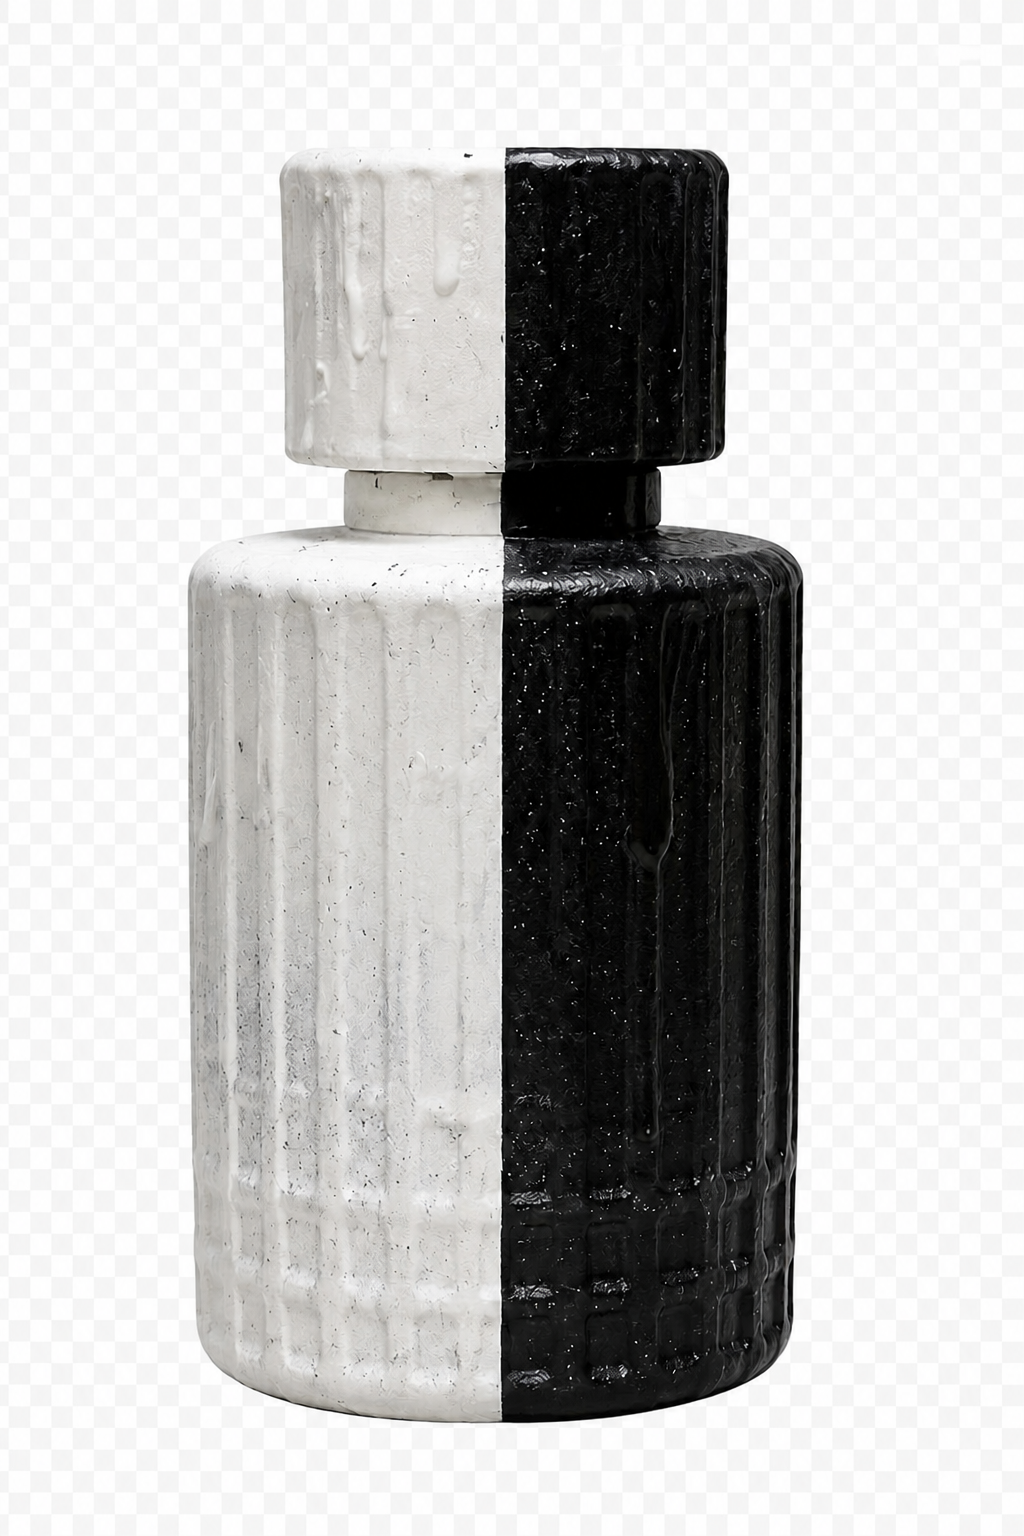
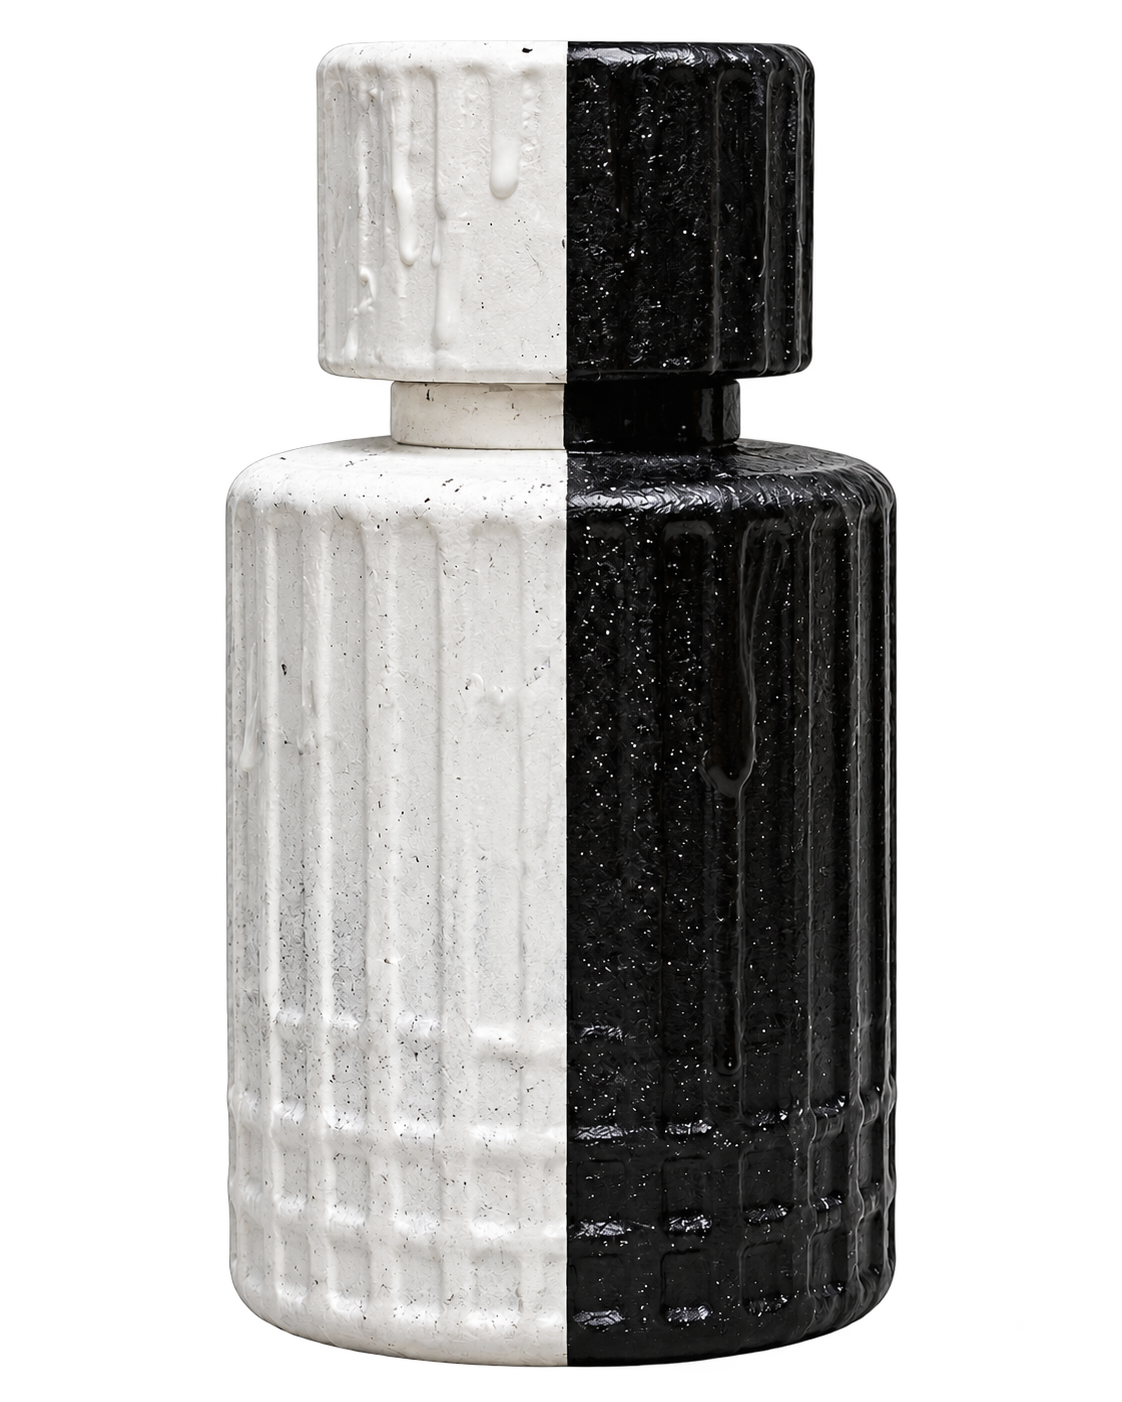
Use transparent product cutouts

Changed region(s): [[0.1562, 0.0307, 0.8125, 0.9815]]

diff --git a/app/globals.css b/app/globals.css
@@ -164,15 +164,14 @@ button:focus-visible, a:focus-visible, input:focus-visible, textarea:focus-visib
   will-change: transform;
   transition: transform .72s cubic-bezier(.15,.85,.25,1);
 }
-.runner-bob { position: relative; width: 100%; height: 100%; animation: bob 2.8s ease-in-out infinite; }
-.bottle-slice { position: absolute; overflow: hidden; display: block; }
-.bottle-slice img { position: absolute; width: 104px; height: 156px; max-width: none; }
-.bottle-cap { left: 28%; top: 8%; width: 48%; height: 25%; border-radius: 11%; }
-.bottle-cap img { left: -29px; top: -12px; }
-.bottle-neck { left: 40%; top: 32%; width: 27%; height: 8%; }
-.bottle-neck img { left: -42px; top: -50px; }
-.bottle-body { left: 19%; top: 38%; width: 64%; height: 57%; border-radius: 12% 12% 16% 16% / 5% 5% 8% 8%; }
-.bottle-body img { left: -20px; top: -59px; }
+.runner-bob {
+  display: block;
+  width: 100%;
+  height: 100%;
+  object-fit: contain;
+  filter: drop-shadow(0 10px 10px rgba(0,0,0,.16));
+  animation: bob 2.8s ease-in-out infinite;
+}
 @keyframes bob { 50% { transform: translateY(-8px) rotate(1.8deg); } }
 
 .inner {
@@ -319,10 +318,6 @@ button:focus-visible, a:focus-visible, input:focus-visible, textarea:focus-visib
   .box-switch { width: 58vw; height: 48svh; }
   .hover-note { right: 4px; bottom: 15%; }
   .runner { width: 78px; height: 117px; }
-  .bottle-slice img { width: 78px; height: 117px; }
-  .bottle-cap img { left: -22px; top: -9px; }
-  .bottle-neck img { left: -31px; top: -37px; }
-  .bottle-body img { left: -15px; top: -44px; }
   .product-layout, .utility-wrap, .checkout-layout { display: block; }
   .product-layout > .product-stage { min-height: 54svh; border-right: 0; border-bottom: 1px solid var(--ink); }
   .product-layout > .product-stage .box-switch { width: 64vw; height: 52svh; }

diff --git a/app/store.tsx b/app/store.tsx
@@ -136,11 +136,7 @@ export function RunawayBottle() {
 
   return (
     <div ref={runner} className="runner" aria-hidden="true">
-      <div className="runner-bob">
-        <span className="bottle-slice bottle-cap"><img src="/assets/bottle-cutout.png" alt="" /></span>
-        <span className="bottle-slice bottle-neck"><img src="/assets/bottle-cutout.png" alt="" /></span>
-        <span className="bottle-slice bottle-body"><img src="/assets/bottle-cutout.png" alt="" /></span>
-      </div>
+      <img className="runner-bob" src="/assets/bottle-cutout.png" alt="" />
     </div>
   );
 }
